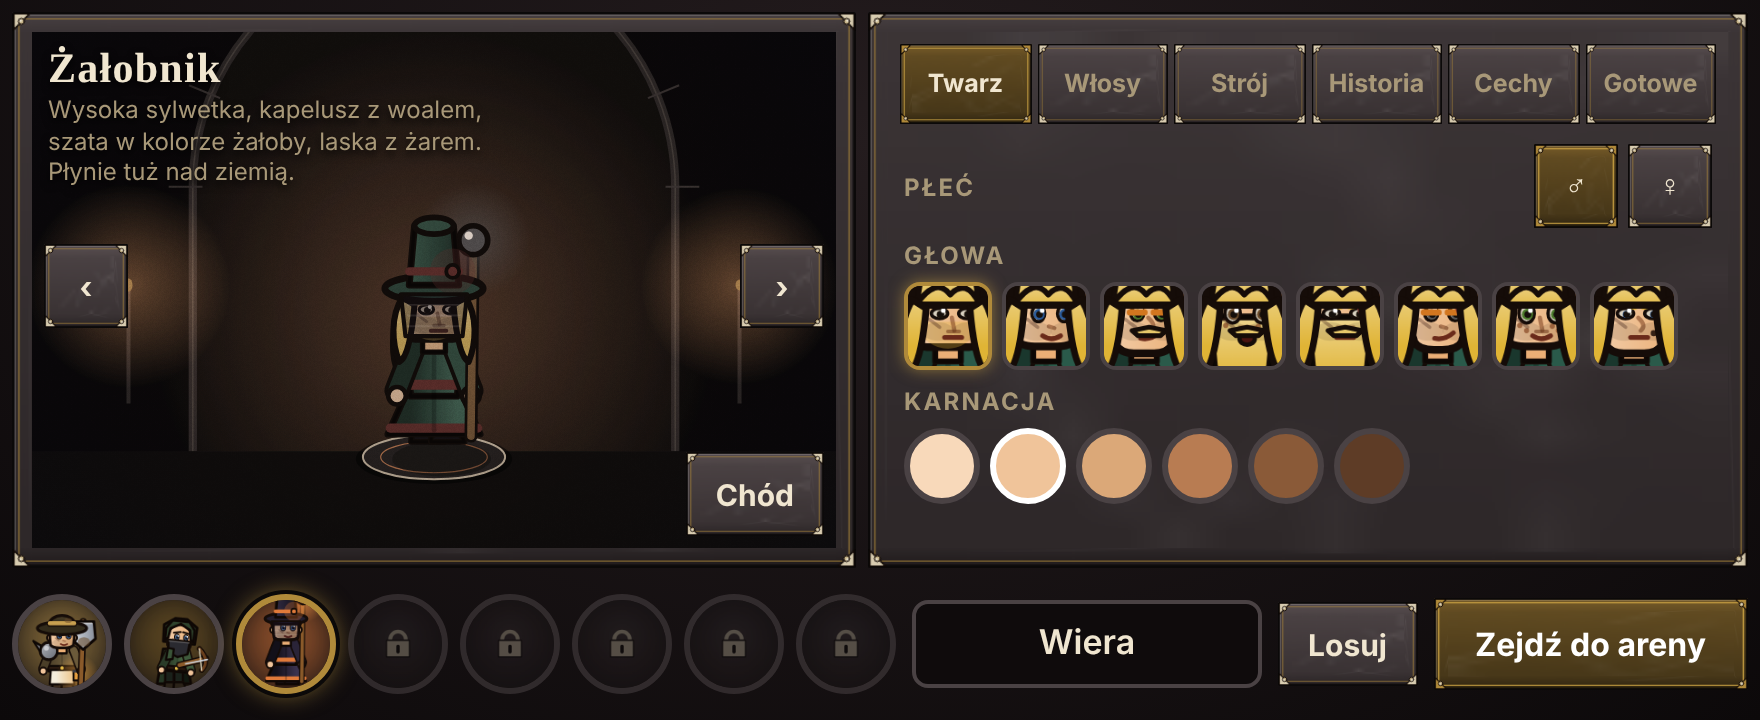
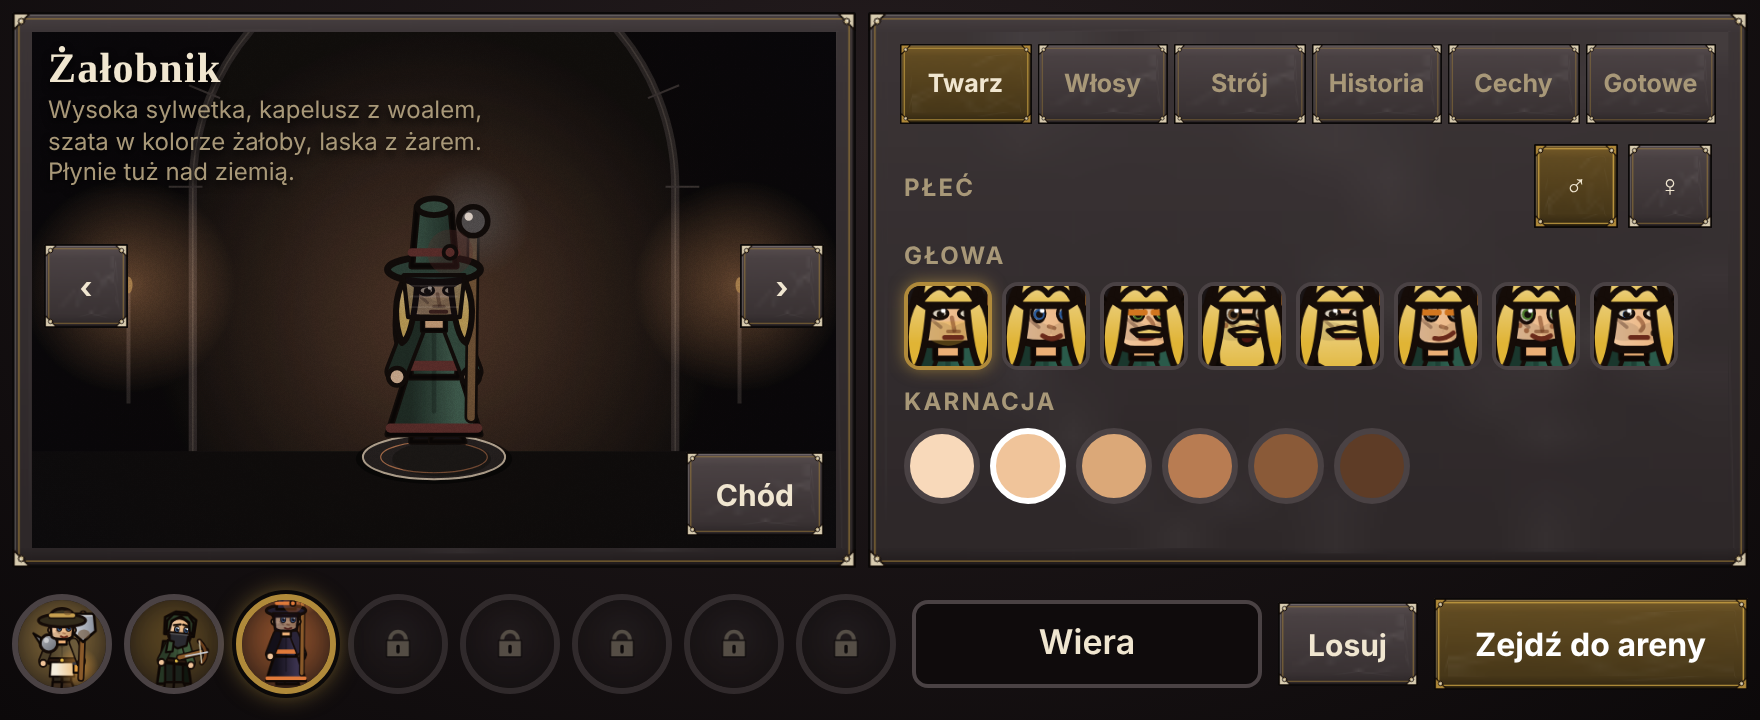
Oprawa Diablo: kule życia/PA/PM, dłuższe nogi i mniejsze głowy, kamienne płyty areny, przygaszone ikony czarów
Claude-Session: https://claude.ai/code/session_01YGgK3XekFYaLDhBRBtmmRq

diff --git a/www/walka.html b/www/walka.html
@@ -18,12 +18,14 @@ canvas#c{position:absolute;inset:0;width:100%;height:100%;touch-action:none;disp
 .sep{width:2px;height:26px;background:#8a7a58;margin:0 3px;border-radius:1px}
 #msg{flex:1;min-width:120px;color:#c6d6a6;font-size:12.5px;text-align:right}
 #msg:empty{display:none}
-#foe{left:max(8px,env(safe-area-inset-left));bottom:max(10px,env(safe-area-inset-bottom));display:none;min-width:150px;pointer-events:none}
+#orbs{position:absolute;left:max(8px,env(safe-area-inset-left));bottom:max(8px,env(safe-area-inset-bottom));display:flex;align-items:flex-end;gap:2px;pointer-events:none;filter:drop-shadow(0 3px 6px rgba(0,0,0,.6))}
+#orb-hp{width:76px;height:76px}#orbs2{display:flex;flex-direction:column;gap:0}#orbs2 canvas{width:40px;height:40px}
+#foe{left:calc(max(8px,env(safe-area-inset-left)) + 126px);bottom:max(10px,env(safe-area-inset-bottom));display:none;min-width:150px;pointer-events:none}
 #foe b{display:block;margin-bottom:4px}
 #foe .rs{display:grid;grid-template-columns:1fr 1fr;gap:4px 10px}
 #foe .r{display:flex;align-items:center;gap:6px;font-weight:700;font-size:14px}
 #foe canvas{width:30px;height:30px}
-#card{left:max(8px,env(safe-area-inset-left));top:calc(max(8px,env(safe-area-inset-top)) + 50px);width:max-content;max-width:46vw;display:none;font-size:13px;line-height:1.35;text-align:left;pointer-events:none}
+#card{left:max(8px,env(safe-area-inset-left));top:calc(max(8px,env(safe-area-inset-top)) + 62px);width:max-content;max-width:46vw;display:none;font-size:13px;line-height:1.35;text-align:left;pointer-events:none}
 #card small{color:#a89878;display:block}
 #bar{border:7px solid #2c2628;border-image:var(--f-panel) 16 fill/7px stretch;position:absolute;left:50%;transform:translateX(-50%);bottom:max(10px,env(safe-area-inset-bottom));display:flex;align-items:center;gap:6px;background:rgba(14,11,12,.88);padding:2px 4px;touch-action:none}
 #slots{display:flex;gap:6px;min-width:calc(var(--s) * 6 + 30px)}
@@ -49,6 +51,7 @@ button{font-family:inherit}
 </style></head><body><div id="app">
 <canvas id="c"></canvas>
 <div id="top"><div id="hud" class="pill"><span id="who">Walka</span><span id="pts"></span></div><div id="turns" class="pill"></div><div id="msg" class="pill"></div></div>
+<div id="orbs"><canvas id="orb-hp" width="144" height="144"></canvas><div id="orbs2"><canvas id="orb-pa" width="80" height="80"></canvas><canvas id="orb-pm" width="80" height="80"></canvas></div></div>
 <div id="foe" class="pill"></div>
 <div id="card" class="pill"></div>
 <div id="bar"><span id="pgi"></span><button class="pg" id="prev" aria-label="Poprzednia strona">‹</button><div id="slots"></div><button class="pg" id="next" aria-label="Następna strona">›</button></div>
@@ -57,11 +60,11 @@ button{font-family:inherit}
 <div id="banner"><span id="bt"></span><button id="again">Jeszcze raz</button></div></div>
 <script type="module">
 import {IsoGrid} from '../src/grid.js';
-import {installFrames} from '../src/art/ui.js';
+import {installFrames,drawOrb} from '../src/art/ui.js';
 installFrames();
 import {genCharacter,drawCharacter,DIRS} from '../src/art/characters.js';
 import {heroSpec} from '../src/art/classes.js';
-import {drawGridLines,fillCells,drawCellOutline} from '../src/art/gridview.js';
+import {drawGridLines,fillCells,drawCellOutline,drawFlagstones} from '../src/art/gridview.js';
 import * as N from '../src/art/nature.js';
 import {grave,ashCloud,bloodSplat,bones,crack} from '../src/art/props.js';
 import {applyMood,glow} from '../src/art/mood.js';
@@ -105,7 +108,7 @@ const COL={earth:'#d2a45c',fire:'#ff6a3a',water:'#5ab0ff',air:'#7ae07a',neutral:
 const bg=document.createElement('canvas');
 function renderBg(){bg.width=cv.width;bg.height=cv.height;const b=bg.getContext('2d');
   N.ground(b,bg.width,bg.height,7,{biome:'dark'});N.tufts(b,bg.width,bg.height,7,Math.round(bg.width*bg.height/1400),null,{biome:'dark'});
-  b.setTransform(view.s,0,0,view.s,view.ox,view.oy);drawGridLines(b,grid,'rgba(220,200,170,.22)');
+  b.setTransform(view.s,0,0,view.s,view.ox,view.oy);drawFlagstones(b,grid,7);drawGridLines(b,grid,'rgba(220,200,170,.16)');
   // ślady dawnych walk na kaflach: krew, kości, pęknięcia (stałe, zależne tylko od pozycji)
   for(let y=0;y<7;y++)for(let x=0;x<7;x++){const h=(x*73+y*151+17)%11,c=grid.center(x,y);if(h===0)bloodSplat(b,c[0]+4,c[1],.9,x*7+y);else if(h===1)bones(b,c[0]-3,c[1]+1,.9,x*5+y);else if(h===2||h===3)crack(b,c[0],c[1]+1,.9,x+y*9)}}
 function resize(){const r=cv.getBoundingClientRect(),dpr=Math.min(2,window.devicePixelRatio||1);cv.width=Math.max(2,Math.round(r.width*dpr));cv.height=Math.max(2,Math.round(r.height*dpr));
@@ -156,7 +159,7 @@ function renderCard(){
     if(kn!==undefined){const [a,b]=damageRangeVs(h,d,def.element,t);dm=`obrażenia ${a}-${b} (odporność ${kn>0?'+':''}${kn}%)`}else dm+=' (odporność nieznana)';}
   box.style.display='block';box.innerHTML=`<b style="color:${COL[def.element]}">${def.name}</b> <span style="color:${COL[def.element]}">(${el.name})</span> · ${d.pa} PA · zasięg ${d.min}-${d.max}${d.line?' w linii':''}${d.los?', widoczność':''}${d.cd?` · odnowienie ${d.cd}`:''}<br>${dm}${d.push?` · odpycha o ${d.push}`:''}`;
 }
-function portrait(c,u){const s=look.get(u.id),g2=c.getContext('2d'),K=2.9*c.width/58;g2.fillStyle='#241a1c';g2.fillRect(0,0,c.width,c.height);drawCharacter(g2,c.width/2,c.height*.52+35*s.sc*K,{...s,sc:s.sc*K,hat:null},DIRS.SE)}
+function portrait(c,u){const s=look.get(u.id),g2=c.getContext('2d'),K=2.9*c.width/58;g2.fillStyle='#241a1c';g2.fillRect(0,0,c.width,c.height);drawCharacter(g2,c.width/2,c.height*.52+40*s.sc*K,{...s,sc:s.sc*K,hat:null},DIRS.SE)}
 // kolejność tur: od jednostki, która gra teraz, po kolei; kreska oddziela tych, którzy zagrają dopiero w następnej rundzie
 function renderTurns(){
   const box=$('turns');box.innerHTML='';const ord=state.order.filter(id=>{const u=unitById(state,id);return u&&u.hp>0});if(!ord.length)return;
@@ -165,7 +168,9 @@ function renderTurns(){
     const u=unitById(state,id),b=document.createElement('button'),c=document.createElement('canvas');c.width=c.height=76;b.className='chip '+(u.team==='gracz'?'ally':'foe')+(i===0?' cur':'');b.id='turn-'+id;b.setAttribute('aria-label',u.name||id);b.title=`${i+1}. ${u.name||id}`;b.append(c);portrait(c,u);
     b.onclick=()=>{if(selSpell)return;inspect=id;preview=null;say(`${u.name||id}: ${u.hp}/${u.maxHp} życia.`);hud()};box.append(b)})}
 function hud(){const u=currentUnit(state),h=me();
-  $('who').textContent=`Runda ${state.turn.round}`;$('pts').textContent=`Życie ${h.hp}/${h.maxHp} · PA ${h.pa}/${h.maxPa} · PM ${h.pm}/${h.maxPm}`;
+  $('who').textContent=`Runda ${state.turn.round}`;$('pts').textContent='';
+  for(const [id,k,v,m] of [['orb-hp','hp',h.hp,h.maxHp],['orb-pa','pa',h.pa,h.maxPa],['orb-pm','pm',h.pm,h.maxPm]]){const c=$(id);drawOrb(c.getContext('2d'),c.width,m?v/m:0,k,String(v));c.dataset.v=v;c.dataset.max=m;c.setAttribute('aria-label',`${k==='hp'?'Życie':k.toUpperCase()} ${v} z ${m}`)}
+  
   $('end').disabled=phase==='place'?false:!mineNow();$('endt').textContent=phase==='place'?'Zaczynamy':'Koniec tury';renderTurns();renderBar();renderCard();renderFoe();resizeSoon()}
 let rs=0,sig='';function resizeSoon(){if(rs)return;rs=setTimeout(()=>{rs=0;const b=$('bar').getBoundingClientRect(),n=Math.round(b.width)+'x'+Math.round(b.height);if(n!==sig){sig=n;resize()}},0)}
 function pickSpell(id){

diff --git a/src/art/characters.js b/src/art/characters.js
@@ -57,7 +57,7 @@ const lockPath = (g, hr, hy, sd) => { g.beginPath(); g.moveTo(sd * (hr + 0.4), h
 
 // kształty głowy: szerokość, szerokość żuchwy, wysokość (podbródek) i szerokość podbródka
 // głowa nieco mniejsza i oczy drobniejsze: mniej kreskówkowo, bardziej surowo
-const HEAD = 0.92;
+const HEAD = 0.84, EXT = 5; // EXT: o tyle dłuższe nogi (górna część ciała wyżej), żeby postać nie była chibi
 export const FACE_SHAPES = { round: { fw: 1, jw: 0.95, ch: 1, cw: 0.22 }, square: { fw: 1.03, jw: 1.02, ch: 1.02, cw: 0.62 }, heart: { fw: 1.03, jw: 0.72, ch: 1.1, cw: 0.12 }, long: { fw: 0.92, jw: 0.86, ch: 1.2, cw: 0.3 }, wide: { fw: 1.1, jw: 1.05, ch: 0.92, cw: 0.5 } };
 export const EYE_TYPES = { round: { rx: 1.5, ry: 1.9, gap: 3 }, narrow: { rx: 1.9, ry: 1.2, gap: 3.2 }, wide: { rx: 1.8, ry: 2.2, gap: 3.4 }, sleepy: { rx: 1.5, ry: 1.7, gap: 2.8, lid: true } };
 export const NOSES = ['dot', 'long', 'wide', 'hook'], MOUTHS = ['smile', 'flat', 'smirk', 'open', 'full'];
@@ -98,18 +98,21 @@ export function drawCharacter(g, x, y, sp, o = {}) {
   const dressy = O_.kind === 'dress' || O_.kind === 'robe';
   const drawLeg = (cx, L) => {
     const fx = cx + L.dx, fy = L.dy - L.lift;
-    poly([[cx - 2.8, -13 + HL], [cx + 2.8, -13 + HL], [fx + 2.8, fy - 4], [fx - 2.8, fy - 4]], O_.pants, 1.5);
+    poly([[cx - 2.8, -13 + HL - EXT], [cx + 2.8, -13 + HL - EXT], [fx + 2.8, fy - 4], [fx - 2.8, fy - 4]], O_.pants, 1.5);
     poly([[fx - 3, fy - 5], [fx + 3, fy - 5], [fx + 3.6 + (back ? 0 : 1.8), fy], [fx - 3.4, fy]], O_.boots, 1.6);
   };
+  g.save(); g.translate(0, -EXT);
   // tył: peleryna za ciałem (widok z przodu)
-  if (sp.cloak && !back) poly([[-shw - 1.5, -27 + bob], [shw + 1.5, -27 + bob], [hw + 5, -4], [-hw - 5, -4]], lg(-hw, 0, hw, 0, shade(sp.cloak, -0.06), shade(sp.cloak, -0.16)), 1.8);
+  if (sp.cloak && !back) poly([[-shw - 1.5, -27 + bob], [shw + 1.5, -27 + bob], [hw + 5, -4 + EXT], [-hw - 5, -4 + EXT]], lg(-hw, 0, hw, 0, shade(sp.cloak, -0.06), shade(sp.cloak, -0.16)), 1.8);
   if (sp.pack === 'quiver' && !back) { poly([[shw - 2, -22 + bob], [shw + 4, -26 + bob], [shw + 7, -34 + bob], [shw + 1, -30 + bob]], '#7a4a26', 1.5); for (let i = 0; i < 3; i++) ln([[shw + 3 + i, -31 + bob - i], [shw + 5 + i, -37 + bob - i]], 1.2, '#e8e0c8'); }
   if (!back && !(sp.hat && sp.hat.kind === 'hood') && (sp.hairStyle === 'long' || sp.hairStyle === 'braids')) {
     const hr0 = 8.6 * HEAD * sp.headS * (sp.female && sp.role !== 'child' ? 0.96 : 1), hy0 = -35 - (sp.headS - 1) * 8; g.save(); g.translate(0, bob); drapePath(g, hr0, hy0);
     g.fillStyle = lg(0, hy0 - hr0, 0, hy0 + hr0, shade(sp.hair, 0.1), shade(sp.hair, -0.12)); g.fill(); g.lineWidth = 1.6; g.strokeStyle = OUT; g.stroke(); g.restore();
   }
+  g.save(); g.translate(0, EXT);
   if (!dressy) { drawLeg(-3, L1); drawLeg(3, L2); }
   else { drawLeg(-2.6, L1); drawLeg(2.6, L2); }
+  g.restore();
   g.save(); g.translate(0, bob);
   if (mvs === 'sneak') { g.translate(1.5, -13); g.rotate(0.1); g.translate(0, 13); }
   if (mvs === 'heavy' && walking) g.translate(Math.sin(th) * 0.8, 0);
@@ -117,14 +120,14 @@ export function drawCharacter(g, x, y, sp, o = {}) {
   const tor = TOR;
   const torFill = lg(-hw, 0, hw, 0, bDark, bLite);
   if (O_.kind === 'dress') {
-    poly([[-hw, -14], [hw, -14], [hw + 4.5, -4], [-hw - 4.5, -4]], lg(-hw, 0, hw, 0, bDark, bLite), 1.8);
+    poly([[-hw, -14], [hw, -14], [hw + 4.5, -4 + EXT], [-hw - 4.5, -4 + EXT]], lg(-hw, 0, hw, 0, bDark, bLite), 1.8);
     for (let i = -1; i <= 1; i++) ln([[i * 4, -13], [i * 6.5, -5]], 0.9, 'rgba(0,0,0,.18)');
-    ln([[-hw - 4.2, -5.2], [hw + 4.2, -5.2]], 2.2, O_.hem);
+    ln([[-hw - 4.2, -5.2 + EXT], [hw + 4.2, -5.2 + EXT]], 2.2, O_.hem);
     poly(TOR, torFill, 1.8);
   } else if (O_.kind === 'robe') {
-    poly([[-hw - 0.6, -14], [hw + 0.6, -14], [hw + 6, -2], [-hw - 6, -2]], lg(-hw, 0, hw, 0, bDark, bLite), 1.8);
+    poly([[-hw - 0.6, -14], [hw + 0.6, -14], [hw + 6, -2 + EXT], [-hw - 6, -2 + EXT]], lg(-hw, 0, hw, 0, bDark, bLite), 1.8);
     poly(TOR, torFill, 1.8);
-    ln([[-hw - 5.4, -3.6], [hw + 5.4, -3.6]], 2.4, O_.trim);
+    ln([[-hw - 5.4, -3.6 + EXT], [hw + 5.4, -3.6 + EXT]], 2.4, O_.trim);
     if (!back) ln([[0, -26], [0, -3]], 1.2, 'rgba(0,0,0,.22)');
   } else {
     if (fm && O_.kind === 'tunic') poly([[-hipX, -13], [hipX, -13], [hipX + 3.4, -6.5], [-hipX - 3.4, -6.5]], lg(-hw, 0, hw, 0, bDark, bLite), 1.6);
@@ -146,7 +149,7 @@ export function drawCharacter(g, x, y, sp, o = {}) {
   if (back && sp.pack === 'quiver') { poly([[-shw - 1, -14], [shw + 2, -29], [shw + 5, -26], [-shw + 2, -11]], '#7a4a26', 1.6); for (let i = 0; i < 3; i++) ln([[shw + 2 + i, -29 + i], [shw + 4 + i, -35 + i]], 1.2, '#e8e0c8'); }
   if (sp.pack === 'pack' && !back) { ln([[-shw + 1.5, -26], [-hw + 1, -14]], 1.6, '#6a3f1c'); ln([[shw - 1.5, -26], [hw - 1, -14]], 1.6, '#6a3f1c'); }
   // peleryna z tyłu
-  if (sp.cloak && back) { poly([[-shw - 1.5, -27], [shw + 1.5, -27], [hw + 5, -4], [-hw - 5, -4]], lg(-hw, 0, hw, 0, shade(sp.cloak, -0.06), shade(sp.cloak, 0.04)), 1.8); for (const i of [-1, 0, 1]) ln([[i * 4, -25], [i * 6.5, -5]], 0.9, 'rgba(0,0,0,.2)'); }
+  if (sp.cloak && back) { poly([[-shw - 1.5, -27], [shw + 1.5, -27], [hw + 5, -4 + EXT], [-hw - 5, -4 + EXT]], lg(-hw, 0, hw, 0, shade(sp.cloak, -0.06), shade(sp.cloak, 0.04)), 1.8); for (const i of [-1, 0, 1]) ln([[i * 4, -25], [i * 6.5, -5]], 0.9, 'rgba(0,0,0,.2)'); }
   // --- ręce ---
   const armSw = walking ? Math.sin(th) : 0;
   const sleeve = O_.kind === 'armor' ? O_.metal : base, glove = O_.kind === 'armor' ? shade(O_.metal, -0.15) : sp.skin;
@@ -256,6 +259,6 @@ export function drawCharacter(g, x, y, sp, o = {}) {
   // szalik
   if (sp.scarf) { poly([[-6.4, hy + hr - 1.6], [6.4, hy + hr - 1.6], [6, hy + hr + 4], [-6, hy + hr + 4]], sp.scarf, 1.6); if (!back) poly([[1, hy + hr + 3], [5, hy + hr + 3.4], [5.6, hy + hr + 13], [1.8, hy + hr + 12]], shade(sp.scarf, -0.08), 1.5); }
   if (sp.cloak && !back) poly([[-shw - 1.2, -27], [-3, -26.6], [-shw + 2.5, -20], [-shw - 1.8, -19]], shade(sp.cloak, 0.04), 1.4);
-  g.restore(); g.restore();
+  g.restore(); g.restore(); g.restore();
 }
 export const DIRS = { SE: { view: 'front', mirror: false }, SW: { view: 'front', mirror: true }, NE: { view: 'back', mirror: false }, NW: { view: 'back', mirror: true } };

diff --git a/src/art/ui.js b/src/art/ui.js
@@ -39,3 +39,27 @@ export function installFrames(doc = document, S = 48) {
   const root = doc.documentElement.style;
   for (const kind of Object.keys(KINDS)) { const c = doc.createElement('canvas'); c.width = c.height = S; drawPlate(c.getContext('2d'), S, kind); root.setProperty(`--f-${kind}`, `url(${c.toDataURL()})`); }
 }
+
+// Kula zasobu jak w Diablo: ciecz do poziomu frac (0..1), połysk, żelazny pierścień i liczba w środku.
+export const ORBS = { hp: ['#d83a30', '#4a0808'], pa: ['#5a86d0', '#10203e'], pm: ['#7aa642', '#1c2c0e'] };
+export function drawOrb(g, S, frac, kind = 'hp', text = '') {
+  const [hi, lo] = ORBS[kind] || ORBS.hp, c = S / 2, r = S / 2 - S * 0.07, f = Math.max(0, Math.min(1, frac));
+  g.clearRect(0, 0, S, S);
+  g.save(); g.beginPath(); g.arc(c, c, r, 0, Math.PI * 2); g.clip();
+  g.fillStyle = '#120a0a'; g.fillRect(0, 0, S, S);
+  const top = c + r - 2 * r * f;
+  if (f > 0) {
+    const gr = g.createLinearGradient(0, top, 0, c + r); gr.addColorStop(0, hi); gr.addColorStop(1, lo);
+    g.fillStyle = gr; g.beginPath(); g.moveTo(0, S);
+    for (let x = 0; x <= S; x += 2) g.lineTo(x, top + Math.sin(x / S * 6.5) * S * 0.018 * (f < 1 ? 1 : 0));
+    g.lineTo(S, S); g.closePath(); g.fill();
+    g.fillStyle = 'rgba(255,255,255,.18)'; g.fillRect(0, top, S, Math.max(1, S * 0.02));
+  }
+  const gl = g.createRadialGradient(c - r * 0.4, c - r * 0.5, 1, c - r * 0.4, c - r * 0.5, r * 0.8); gl.addColorStop(0, 'rgba(255,255,255,.32)'); gl.addColorStop(1, 'rgba(255,255,255,0)');
+  g.fillStyle = gl; g.fillRect(0, 0, S, S);
+  g.restore();
+  g.lineWidth = S * 0.075; g.strokeStyle = '#4a4244'; g.beginPath(); g.arc(c, c, r + S * 0.02, 0, Math.PI * 2); g.stroke();
+  g.lineWidth = S * 0.02; g.strokeStyle = '#0b0909'; g.beginPath(); g.arc(c, c, r + S * 0.06, 0, Math.PI * 2); g.stroke();
+  g.lineWidth = S * 0.015; g.strokeStyle = THEME.brass; g.beginPath(); g.arc(c, c, r - S * 0.01, 0, Math.PI * 2); g.stroke();
+  if (text) { g.font = `700 ${Math.round(S * 0.3)}px system-ui`; g.textAlign = 'center'; g.textBaseline = 'middle'; g.lineWidth = S * 0.06; g.strokeStyle = '#000'; g.strokeText(text, c, c); g.fillStyle = '#f4ead4'; g.fillText(text, c, c); }
+}

diff --git a/src/art/gridview.js b/src/art/gridview.js
@@ -19,3 +19,20 @@ export function drawBlocked(g, grid, x, y) {
   fillCell(g, grid, x, y, 'rgba(120,30,20,.35)');
   ln([[t[0], t[1] + 8], [b[0], b[1] - 8]], 2, 'rgba(255,255,255,.5)'); ln([[l[0] + 14, l[1]], [r[0] - 14, r[1]]], 2, 'rgba(255,255,255,.5)');
 }
+
+// Kafle jak płyty z kamienia: każdy w innym odcieniu, ze ściętymi krawędziami, plamami brudu i drobnymi odpryskami.
+import { rng } from './rng.js';
+export function drawFlagstones(g, grid, seed = 1) {
+  const { poly, ln } = kit(g);
+  for (let y = 0; y < grid.rows; y++) for (let x = 0; x < grid.cols; x++) {
+    const r = rng(seed * 131 + x * 17 + y * 29), [t, rt, b, l] = grid.corners(x, y), L = r.range(0.2, 0.3);
+    const col = `hsl(${r.range(24, 40)},${r.range(8, 16)}%,${L * 100}%)`;
+    poly([t, rt, b, l], col, 0);
+    g.save(); g.beginPath(); [t, rt, b, l].forEach(([px, py], i) => (i ? g.lineTo(px, py) : g.moveTo(px, py))); g.closePath(); g.clip();
+    const cx = (t[0] + b[0]) / 2, cy = (t[1] + b[1]) / 2;
+    for (let i = 0; i < 5; i++) { g.fillStyle = r() < 0.5 ? 'rgba(0,0,0,.14)' : 'rgba(255,240,210,.05)'; g.beginPath(); g.ellipse(cx + r.range(-22, 22), cy + r.range(-9, 9), r.range(4, 13), r.range(2, 6), 0, 0, 7); g.fill(); }
+    for (let i = 0; i < 2; i++) { const px = cx + r.range(-16, 16), py = cy + r.range(-6, 6); ln([[px, py], [px + r.range(-9, 9), py + r.range(-3, 3)], [px + r.range(-14, 14), py + r.range(-5, 5)]], 0.9, 'rgba(0,0,0,.4)'); }
+    g.restore();
+    ln([l, t, rt], 1.4, 'rgba(255,235,200,.13)'); ln([rt, b, l], 1.8, 'rgba(0,0,0,.42)');
+  }
+}

diff --git a/src/art/spellicons.js b/src/art/spellicons.js
@@ -37,7 +37,7 @@ export const SPELL_SYMBOLS = Object.keys(SYMBOLS);
 // state: { selected, disabled, cooldown (liczba), soon (czar jeszcze nie działa), noPa (za mało PA) }
 export function drawSpellIcon(g, spell, x, y, size = 64, state = {}) {
   const k = kit(g), { poly, circ, lg } = k, el = ELEMENTS[spell.element] || ELEMENTS.neutral, s = size / 64;
-  g.save(); g.translate(x, y); g.scale(s, s);
+  g.save(); if ('filter' in g) g.filter = 'saturate(.68) brightness(.9) contrast(1.08)'; g.translate(x, y); g.scale(s, s);
   if (state.selected) { const gr = g.createRadialGradient(0, 0, 18, 0, 0, 46); gr.addColorStop(0, 'rgba(255,224,102,.65)'); gr.addColorStop(1, 'rgba(255,224,102,0)'); g.fillStyle = gr; g.fillRect(-46, -46, 92, 92); }
   const pts = FRAMES[el.shape]();
   poly(pts, lg(0, -28, 0, 28, shade(el.color, 0.16), shade(el.color, -0.2)), 3.2);

diff --git a/www/kreator.html b/www/kreator.html
@@ -68,7 +68,7 @@ const spec=(over={})=>heroSpec(st.classId,{...st,seed:st.heroSeed,...over});
 const dirOpt=()=>DIRS[ORDER[st.dir]];
 
 function thumb(cv,sp,K0=2.9){const K=K0*cv.width/58;const g=cv.getContext('2d');g.clearRect(0,0,cv.width,cv.height);g.fillStyle='#1a1516';g.fillRect(0,0,cv.width,cv.height);
-  drawCharacter(g,cv.width/2,cv.height*0.52+35*sp.sc*K,{...sp,sc:sp.sc*K,hat:null},{...DIRS.SE})}
+  drawCharacter(g,cv.width/2,cv.height*0.52+40*sp.sc*K,{...sp,sc:sp.sc*K,hat:null},{...DIRS.SE})}
 // medalion klasy: popiersie na tle w kolorze klasy; zablokowany slot to kłódka
 function medal(cv,slot){const g=cv.getContext('2d'),W=cv.width;g.clearRect(0,0,W,W);
   const gr=g.createRadialGradient(W/2,W*.4,4,W/2,W/2,W*.7);
